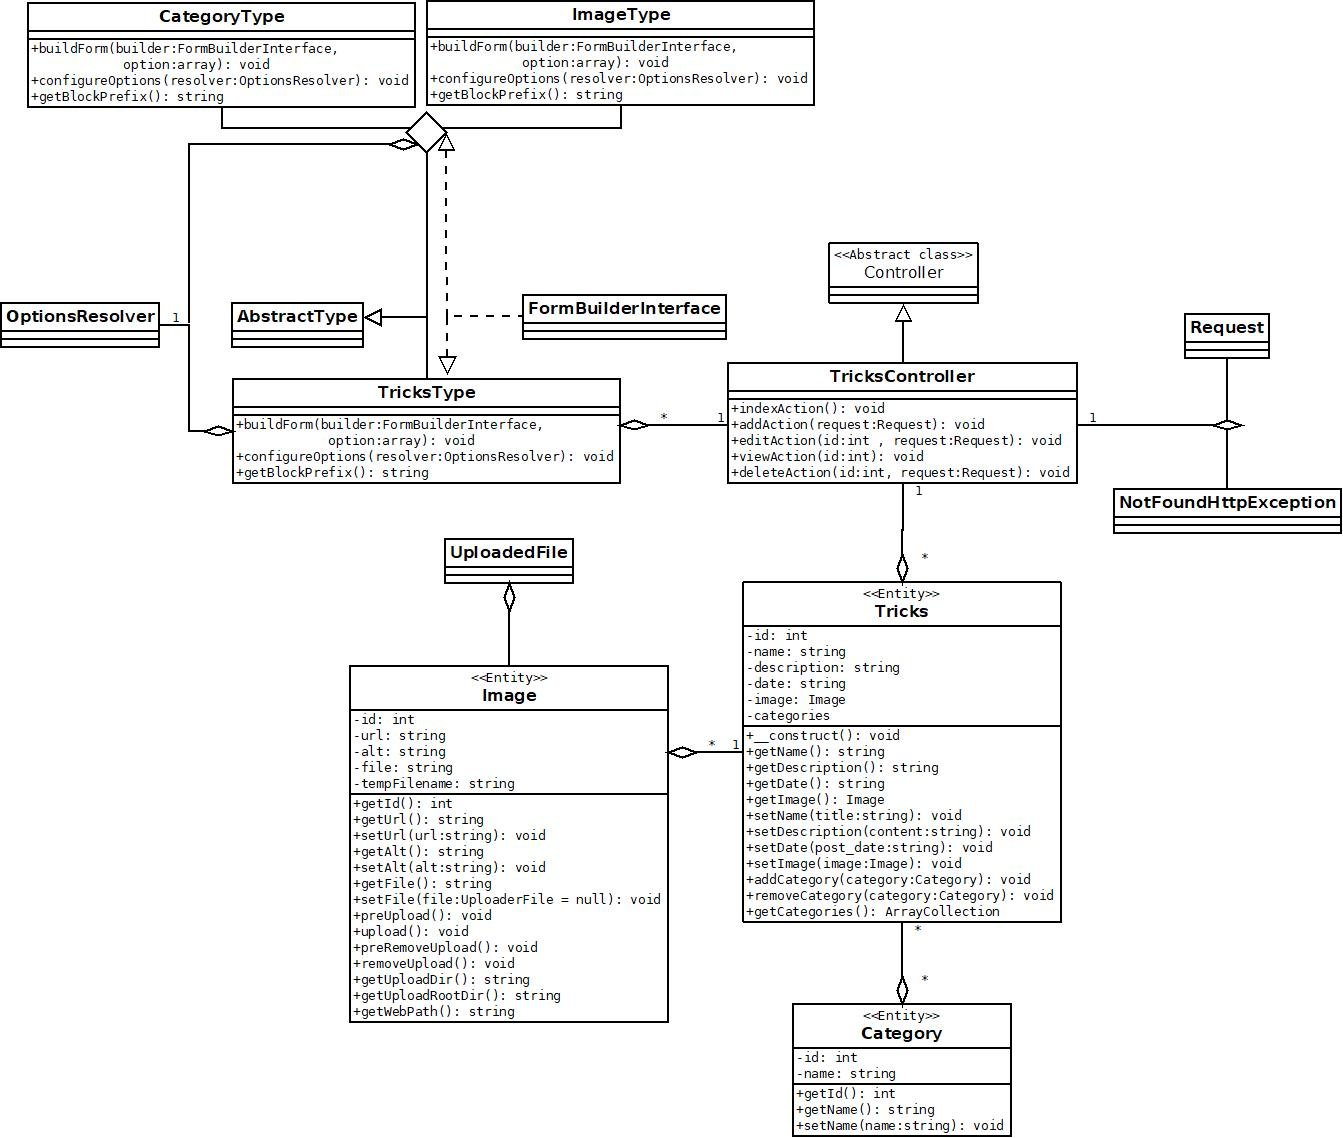
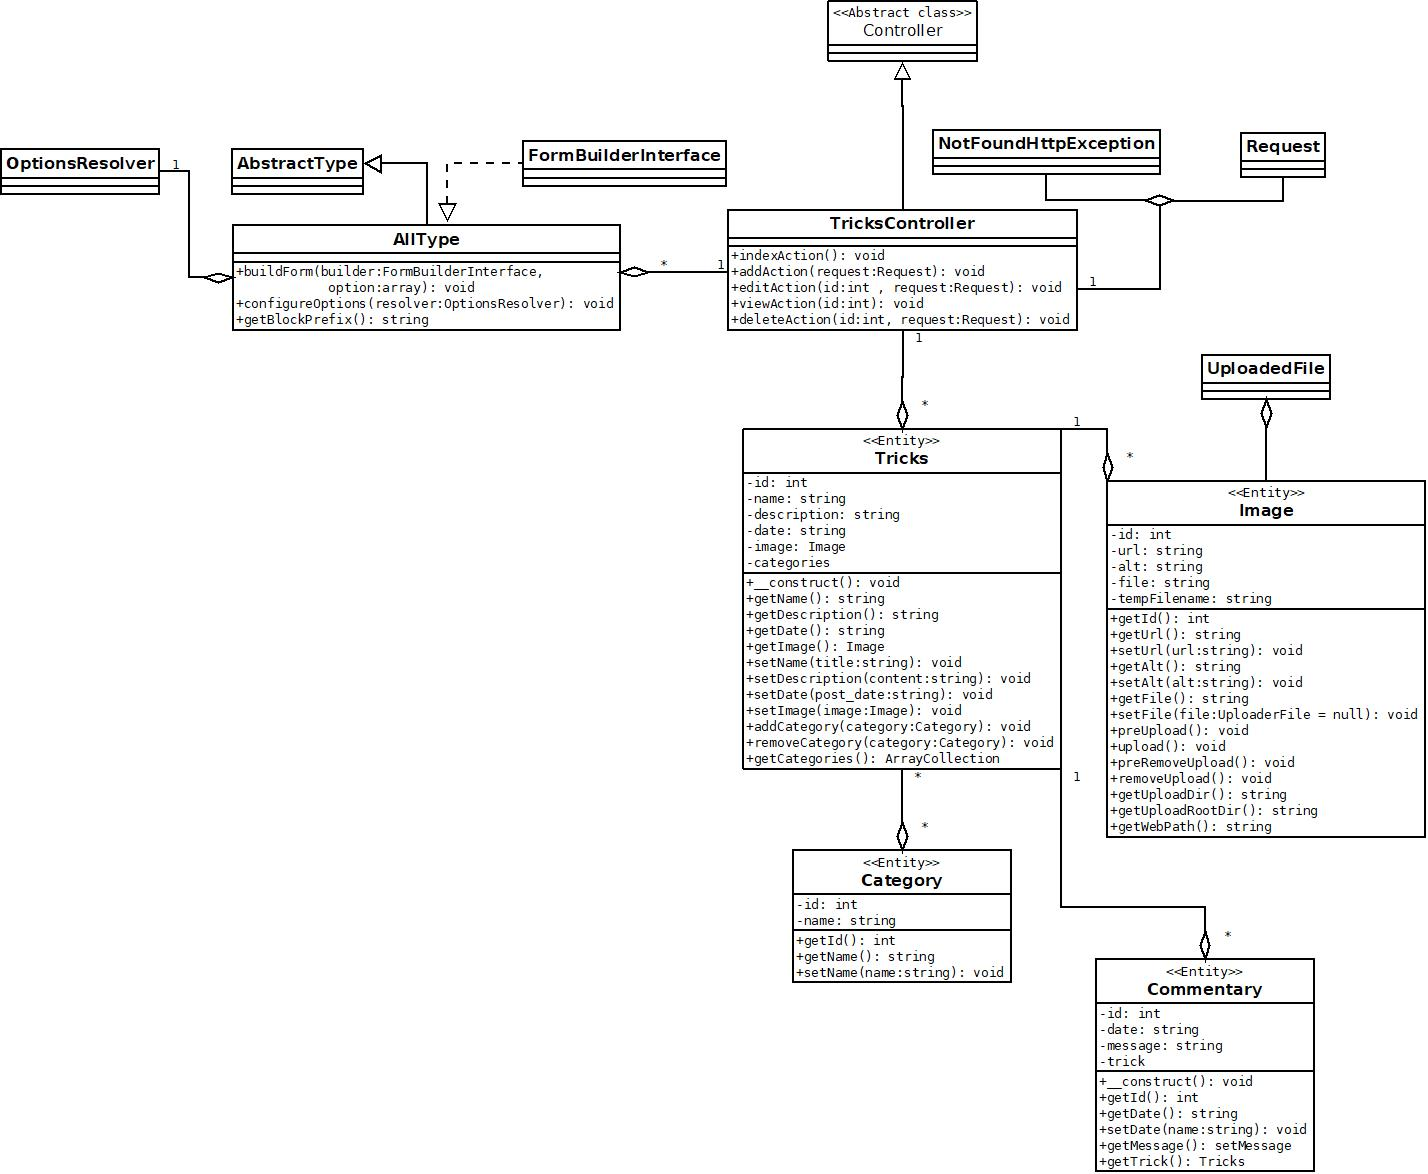
Delete the commentaryController and remove its code in the TricksController, display commentaries ok, UML update, next step delete and edit them

diff --git a/src/S7tH/DirectoryBundle/Controller/TricksController.php b/src/S7tH/DirectoryBundle/Controller/TricksController.php
@@ -4,10 +4,12 @@ namespace S7tH\DirectoryBundle\Controller;
 
 /*my entities*/
 use S7tH\DirectoryBundle\Entity\Tricks;
+use S7tH\DirectoryBundle\Entity\Commentary;
 /*end entities*/
 
 /*for my form*/
 use S7tH\DirectoryBundle\Form\TricksType;
+use S7tH\DirectoryBundle\Form\CommentaryType;
 /*end form*/
 
 use Symfony\Bundle\FrameworkBundle\Controller\Controller;
@@ -110,17 +112,15 @@ class TricksController extends Controller
             ));
     }
 
-    public function viewAction($id)
+    public function viewAction($id, Request $request)
     {
-        //recover the repository
-        $repository = $this->getDoctrine()
-            ->getManager()
-            ->getRepository('S7tHDirectoryBundle:Tricks')
-            ;
+        //recover the entity manager
+        $em = $this->getDoctrine()->getManager();
+
         
-        //recover the entity with the same id
+        //recover the entity with the same id after had recover the repository
         //$tricks is a filled object of Tricks entity
-        $trick = $repository->find($id);
+        $trick = $em->getRepository('S7tHDirectoryBundle:Tricks')->find($id);
         
         // if the id don't exist
         if (null === $trick)
@@ -128,9 +128,39 @@ class TricksController extends Controller
             throw new NotFoundHttpException("Le trick ayant l'id ".$id." n'existe pas.");
         }
 
+        // this part is for the commentaries
+
+        //create my commentary object entity
+        $commentary = new Commentary($trick);
+
+        //create the formBuilder
+        $form = $this->get('form.factory')->create(CommentaryType::class, $commentary);
+
+        //if a commentary form has been send we save the commentary after a check up on it.
+        if ($request->isMethod('POST') && $form->handleRequest($request)->isValid())
+        {
+            // Now the variable $tricks contains the form values
+
+                //we save our entity in the db
+                $em->persist($commentary);//create the request sql
+                $em->flush();//send the request and save in the db
+
+                $request->getSession()->getFlashBag()->add('com', 'Votre message a bien été enregistré.');
+
+                // Puis on redirige vers la page de visualisation de cettte annonce
+                return $this->redirectToRoute('s7t_h_directory_trickview', array('id' => $id));
+        }
+
+        //recover the commentaries for display them
+        $commentaries = $em->getRepository('S7tHDirectoryBundle:Commentary')->findBy(array('trick'=> $trick));
+
+
+        //end for the commentaries part
 
         return $this->render('S7tHDirectoryBundle:Tricks:view.html.twig', array(
             'trick' => $trick,
+            'form' => $form->createView(),
+            'commentaries' => $commentaries,
         ));
     }
 

diff --git a/src/S7tH/DirectoryBundle/Repository/CommentaryRepository.php b/src/S7tH/DirectoryBundle/Repository/CommentaryRepository.php
@@ -10,4 +10,19 @@ namespace S7tH\DirectoryBundle\Repository;
  */
 class CommentaryRepository extends \Doctrine\ORM\EntityRepository
 {
+    public function getApplicationsWithAdvert($limit)
+    {
+        $qb = $this->createQueryBuilder('c');
+        // On fait une jointure avec l'entité Advert avec pour alias « adv »
+        $qb
+          ->innerJoin('c.tricks', 'tks')
+          ->addSelect('tks');
+
+        // Puis on ne retourne que $limit résultats
+        $qb->setMaxResults($limit);
+        // Enfin, on retourne le résultat
+        return $qb
+          ->getQuery()
+          ->getResult();
+    }
 }

diff --git a/src/S7tH/DirectoryBundle/Entity/Tricks.php b/src/S7tH/DirectoryBundle/Entity/Tricks.php
@@ -63,7 +63,7 @@ class Tricks
      */
     private $category;
 
-
+    
 
     /*methods*/
 
